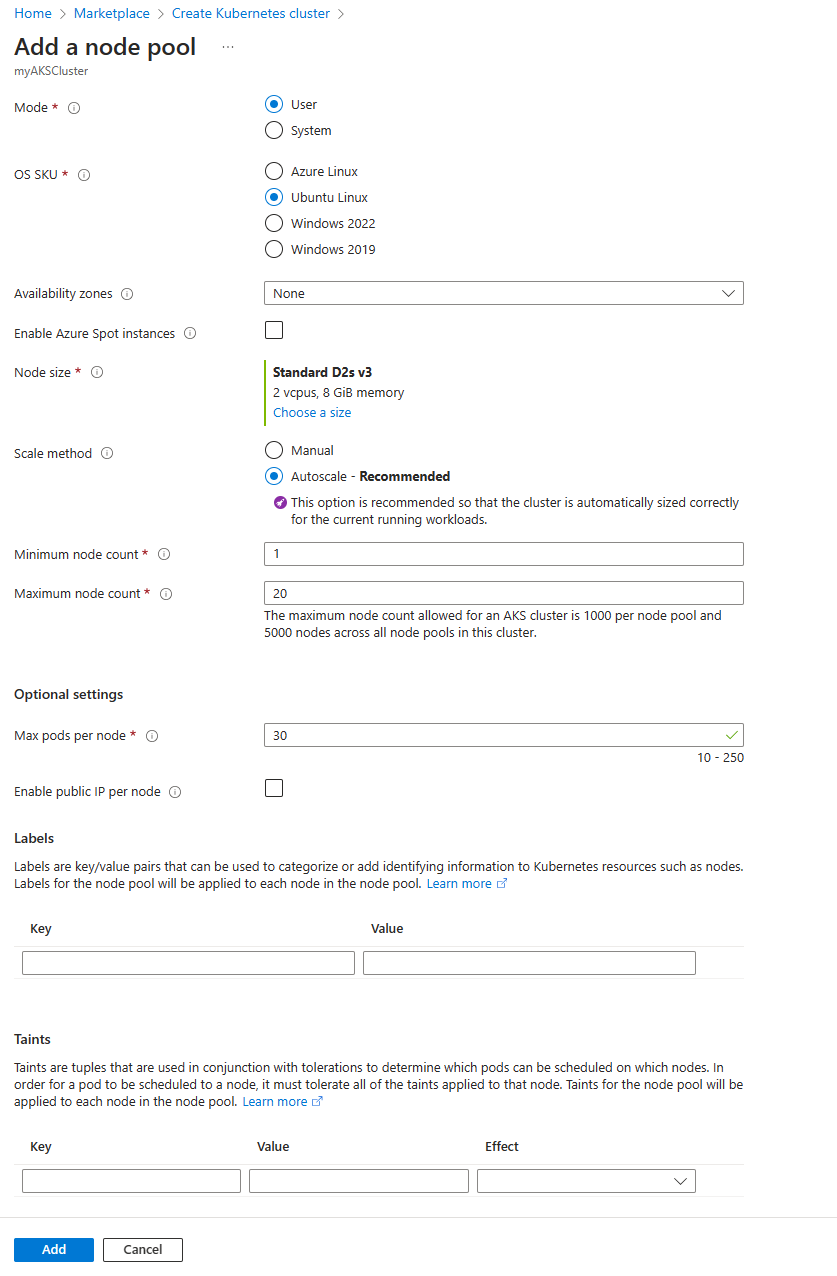
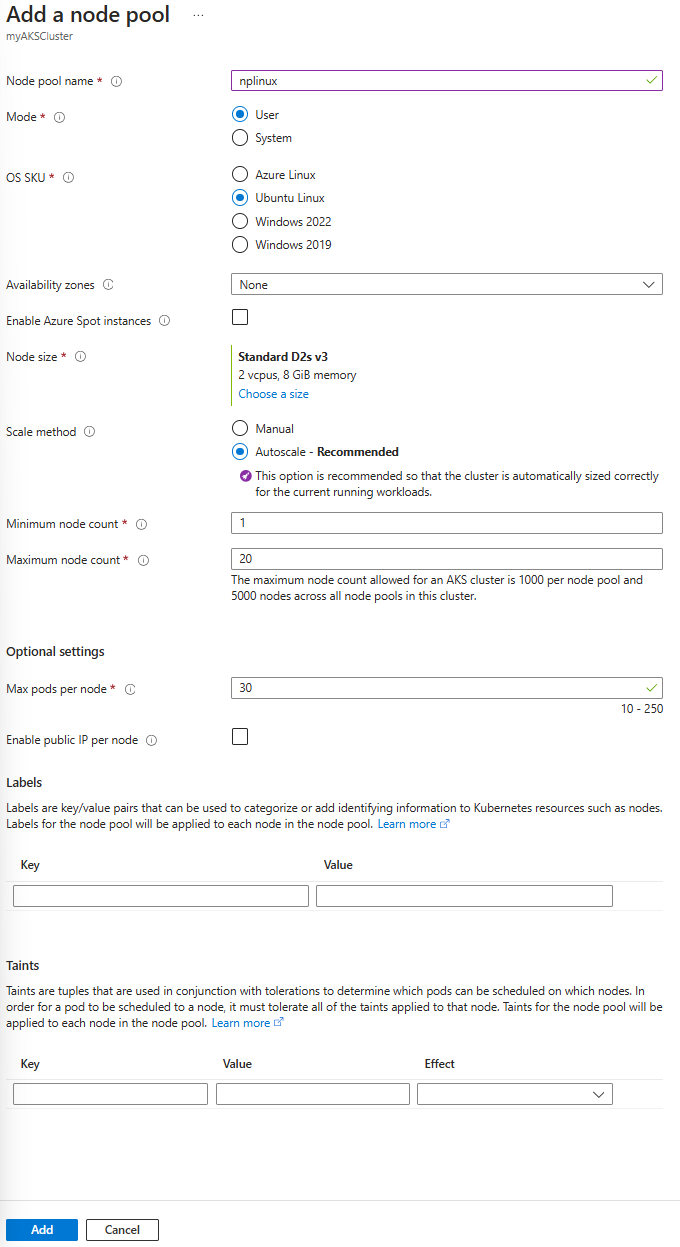
Updates to the AKS quickstart using the Azure portal

diff --git a/articles/aks/learn/quick-kubernetes-deploy-portal.md b/articles/aks/learn/quick-kubernetes-deploy-portal.md
@@ -36,102 +36,93 @@ This quickstart assumes a basic understanding of Kubernetes concepts. For more i
 1. Sign in to the [Azure portal][azure-portal].
 1. On the Azure portal home page, select **Create a resource**.
 1. In the **Categories** section, select **Containers** > **Azure Kubernetes Service (AKS)**.
-1. On the **Basics** tab, configure the following options:
+1. On the **Basics** tab, configure the following settings:
     - Under **Project details**:
-        - Select an Azure **Subscription**.
-        - Create an Azure **Resource group**, such as *myResourceGroup*. While you can select an existing resource group, for testing or evaluation purposes, we recommend creating a resource group to temporarily host these resources and avoid impacting your production or development workloads.
+        - **Subscription**: Select the Azure subscription you want to use for this AKS cluster.
+        - **Resource group**: Select **Create new**, enter a resource group name, such as *myResourceGroup*, and then select **Ok**. While you can select an existing resource group, for testing or evaluation purposes, we recommend creating a resource group to temporarily host these resources and avoid impacting your production or development workloads.
     - Under **Cluster details**:
-      - Set the **Cluster preset configuration** to *Dev/Test*. For more details on preset configurations, see [Cluster configuration presets in the Azure portal][preset-config].
+      - **Cluster preset configuration**: Select **Dev/Test**. For more details on preset configurations, see [Cluster configuration presets in the Azure portal][preset-config].
 
         > [!NOTE]
-        > You can change the preset configuration when creating your cluster by selecting *Compare presets* and choosing a different option.
+        > You can change the preset configuration when creating your cluster by selecting **Compare presets** and choosing a different option.
         > :::image type="content" source="media/quick-kubernetes-deploy-portal/cluster-preset-options.png" alt-text="Screenshot of Create AKS cluster - portal preset options." lightbox="media/quick-kubernetes-deploy-portal/cluster-preset-options.png":::
 
-      - Enter a **Kubernetes cluster name**, such as *myAKSCluster*.
-      - Select a **Region** for the AKS cluster.
-      - Set the **Availability zones** setting to *None*.
-      - Set the **AKS pricing tier** to *Free*.
-      - Leave the default value selected for **Kubernetes version**.
-      - Leave the **Automatic upgrade** setting set to the recommended value, which is *Enabled with patch*.
-      - Leave the **Authentication and authorization** setting set to *Local accounts with Kubernetes RBAC*.
+      - **Kubernetes cluster name**: Enter a cluster name, such as *myAKSCluster*.
+      - **Region**: Select a region, such as *East US 2*.
+      - **Availability zones**: Select **None**.
+      - **AKS pricing tier**: Select **Free**.
+      - Leave the default values for the remaining settings, and select **Next**.
 
         :::image type="content" source="media/quick-kubernetes-deploy-portal/create-cluster-basics.png" alt-text="Screenshot showing how to configure an AKS cluster in Azure portal." lightbox="media/quick-kubernetes-deploy-portal/create-cluster-basics.png":::
 
-1. Select **Next**. On the **Node pools** tab, add a new node pool:
-    - Select **Add node pool**.
-    - Enter a **Node pool name**, such as *nplinux*.
-    - For **Mode**, select **User**.
-    - For **OS SKU**, select **Ubuntu Linux**.
-    - Set the **Availability zones** setting to *None*.
+1. On the **Node pools** tab, configure the following settings:
+    - Select **Add node pool** and enter a **Node pool name**, such as *nplinux*.
+    - **Mode**: Select **User**.
+    - **OS SKU**: Select **Ubuntu Linux**.
+    - **Availability zones**: Select **None**.
     - Leave the **Enable Azure Spot instances** checkbox unchecked.
-    - For **Node size**, select **Choose a size**. On the **Select a VM size** page, select *D2s_v3*, then choose the **Select** button.
-    - Leave the **Scale method** setting set to *Autoscale*.
-    - Leave the **Minimum node count** and **Maximum node count** fields set to their default settings.
+    - **Node size**: Select **Choose a size**. On the **Select a VM size** page, select **D2s_v3**, and then select **Select**.
+    - Leave the default values for the remaining settings, and select **Add**.
 
         :::image type="content" source="media/quick-kubernetes-deploy-portal/create-node-pool-linux.png" alt-text="Screenshot showing how to create a node pool running Ubuntu Linux." lightbox="media/quick-kubernetes-deploy-portal/create-node-pool-linux.png":::
 
-1. Leave all settings on the other tabs set to their defaults, except for the settings on the **Monitoring** tab. By default, the [Azure Monitor features][azure-monitor-features-containers] Container insights, Azure Monitor managed service for Prometheus, and Azure Managed Grafana are enabled. You can save costs by disabling them.
+1. Select **Review + create** to run validation on the cluster configuration. After validation completes, select **Create**.
 
-1. Select **Review + create** to run validation on the cluster configuration. After validation completes, select **Create** to create the AKS cluster.
-
-It takes a few minutes to create the AKS cluster. When your deployment is complete, navigate to your resource by either:
-
-- Selecting **Go to resource**, or
-- Browsing to the AKS cluster resource group and selecting the AKS resource. In this example you browse for *myResourceGroup* and select the resource *myAKSCluster*.
+    It takes a few minutes to create the AKS cluster. When your deployment is complete, navigate to your resource by selecting **Go to resource**, or by browsing to the AKS cluster resource group and selecting the AKS resource.
 
 ## Connect to the cluster
 
-To manage a Kubernetes cluster, use the Kubernetes command-line client, [kubectl][kubectl]. `kubectl` is already installed if you use Azure Cloud Shell. If you're unfamiliar with the Cloud Shell, review [Overview of Azure Cloud Shell](/azure/cloud-shell/overview).
+You use the Kubernetes command-line client, [kubectl][kubectl], to manage Kubernetes clusters. `kubectl` is already installed if you use Azure Cloud Shell. If you're unfamiliar with the Cloud Shell, review [Overview of Azure Cloud Shell](/azure/cloud-shell/overview).
 
 If you're using Cloud Shell, open it with the `>_` button on the top of the Azure portal. If you're using PowerShell locally, connect to Azure via the `Connect-AzAccount` command. If you're using Azure CLI locally, connect to Azure via the `az login` command.
 
 ### [Azure CLI](#tab/azure-cli)
 
-1. Configure `kubectl` to connect to your Kubernetes cluster using the [az aks get-credentials][az-aks-get-credentials] command. This command downloads credentials and configures the Kubernetes CLI to use them.
+1. Configure `kubectl` to connect to your Kubernetes cluster using the [`az aks get-credentials`][az-aks-get-credentials] command. This command downloads credentials and configures the Kubernetes CLI to use them.
 
-    ```azurecli
+    ```azurecli-interactive
     az aks get-credentials --resource-group myResourceGroup --name myAKSCluster
     ```
 
 1. Verify the connection to your cluster using `kubectl get` to return a list of the cluster nodes.
 
-    ```azurecli
+    ```azurecli-interactive
     kubectl get nodes
     ```
 
     The following example output shows the single node created in the previous steps. Make sure the node status is *Ready*.
 
     ```output
-    NAME                                STATUS   ROLES   AGE     VERSION
-    aks-nodepool1-31718369-0   Ready    agent   6m44s   v1.15.10
+    NAME                                STATUS   ROLES   AGE       VERSION
+    aks-nodepool1-31718369-0   Ready    agent    6m44s   v1.15.10
     ```
 
 ### [Azure PowerShell](#tab/azure-powershell)
 
-1. Configure `kubectl` to connect to your Kubernetes cluster using the [Import-AzAksCredential][import-azakscredential] cmdlet. This command downloads credentials and configures the Kubernetes CLI to use them.
+1. Configure `kubectl` to connect to your Kubernetes cluster using the [`Import-AzAksCredential`][import-azakscredential] cmdlet. This command downloads credentials and configures the Kubernetes CLI to use them.
 
-    ```azurepowershell
+    ```azurepowershell-interactive
     Import-AzAksCredential -ResourceGroupName myResourceGroup -Name myAKSCluster
     ```
 
 1. Verify the connection to your cluster using `kubectl get` to return a list of the cluster nodes.
 
-    ```azurepowershell
+    ```azurepowershell-interactive
     kubectl get nodes
     ```
 
     The following example output shows the single node created in the previous steps. Make sure the node status is *Ready*.
 
     ```output
-    NAME                                STATUS   ROLES   AGE     VERSION
-    aks-nodepool1-31718369-0   Ready    agent   6m44s   v1.15.10
+    NAME                                STATUS   ROLES   AGE       VERSION
+    aks-nodepool1-31718369-0   Ready    agent    6m44s   v1.15.10
     ```
 
 ---
 
 ## Deploy the application
 
-To deploy the application, you use a manifest file to create all the objects required to run the [AKS Store application](https://github.com/Azure-Samples/aks-store-demo). A Kubernetes manifest file defines a cluster's desired state, such as which container images to run. The manifest includes the following Kubernetes deployments and services:
+You use a manifest file to create all the objects required to run the [AKS Store application](https://github.com/Azure-Samples/aks-store-demo). A Kubernetes manifest file defines a cluster's desired state, such as which container images to run. The manifest includes the following Kubernetes deployments and services:
 
 :::image type="content" source="media/quick-kubernetes-deploy-portal/aks-store-architecture.png" alt-text="Screenshot of Azure Store sample architecture." lightbox="media/quick-kubernetes-deploy-portal/aks-store-architecture.png":::
 
@@ -144,7 +135,7 @@ To deploy the application, you use a manifest file to create all the objects req
 > We don't recommend running stateful containers, such as Rabbit MQ, without persistent storage for production. These are used here for simplicity, but we recommend using managed services, such as Azure CosmosDB or Azure Service Bus.
 
 1. In the Cloud Shell, open an editor and create a file named `aks-store-quickstart.yaml`.
-1. Paste the following manifest into the editor:
+2. Paste the following manifest into the editor:
 
     ```yaml
     apiVersion: apps/v1
@@ -379,9 +370,9 @@ To deploy the application, you use a manifest file to create all the objects req
 
     If you create and save the YAML file locally, then you can upload the manifest file to your default directory in CloudShell by selecting the **Upload/Download files** button and selecting the file from your local file system.
 
-1. Deploy the application using the `kubectl apply` command and specify the name of your YAML manifest:
+3. Deploy the application using the `kubectl apply` command and specify the name of your YAML manifest:
 
-    ```console
+    ```bash
     kubectl apply -f aks-store-quickstart.yaml
     ```
 
@@ -402,15 +393,15 @@ To deploy the application, you use a manifest file to create all the objects req
 
 When the application runs, a Kubernetes service exposes the application front end to the internet. This process can take a few minutes to complete.
 
-1. Check the status of the deployed pods using the [kubectl get pods][kubectl-get] command. Make sure all pods are `Running` before proceeding.
+1. Check the status of the deployed pods using the [`kubectl get pods`][kubectl-get] command. Make sure all pods are `Running` before proceeding.
 
-    ```console
+    ```bash
     kubectl get pods
     ```
 
-1. Check for a public IP address for the store-front application. Monitor progress using the [kubectl get service][kubectl-get] command with the `--watch` argument.
+1. Check for a public IP address for the `store-front` application. Monitor progress using the [`kubectl get service`][kubectl-get] command with the `--watch` argument.
 
-    ```azurecli
+    ```azurecli-interactive
     kubectl get service store-front --watch
     ```
 
@@ -436,7 +427,7 @@ When the application runs, a Kubernetes service exposes the application front en
 
 ## Delete the cluster
 
-If you don't plan on going through the [AKS tutorial][aks-tutorial], clean up unnecessary resources to avoid Azure charges.
+If you don't plan on going through the [AKS tutorial series][aks-tutorial], clean up unnecessary resources to avoid Azure charges.
 
 1. In the Azure portal, navigate to your AKS cluster resource group.
 1. Select **Delete resource group**.
@@ -447,12 +438,12 @@ If you don't plan on going through the [AKS tutorial][aks-tutorial], clean up un
 
 ## Next steps
 
-In this quickstart, you deployed a Kubernetes cluster and then deployed a simple multi-container application to it. This sample application is for demo purposes only and doesn't represent all the best practices for Kubernetes applications. For guidance on creating full solutions with AKS for production, see [AKS solution guidance][aks-solution-guidance].
+In this quickstart, you deployed a Kubernetes cluster, and then deployed a simple multi-container application to it. This sample application is for demo purposes only and doesn't represent all the best practices for Kubernetes applications. For guidance on creating full solutions with AKS for production, see [AKS solution guidance][aks-solution-guidance].
 
-To learn more about AKS and walk through a complete code-to-deployment example, continue to the Kubernetes cluster tutorial.
+To learn more about AKS and walk through a complete code-to-deployment example, continue to the Kubernetes cluster tutorial series.
 
 > [!div class="nextstepaction"]
-> [AKS tutorial][aks-tutorial]
+> [AKS tutorial series][aks-tutorial]
 
 <!-- LINKS - external -->
 [kubectl]: https://kubernetes.io/docs/reference/kubectl/
@@ -468,4 +459,3 @@ To learn more about AKS and walk through a complete code-to-deployment example, 
 [intro-azure-linux]: /azure/azure-linux/intro-azure-linux
 [baseline-reference-architecture]: /azure/architecture/reference-architectures/containers/aks/baseline-aks?toc=/azure/aks/toc.json&bc=/azure/aks/breadcrumb/toc.json
 [aks-solution-guidance]: /azure/architecture/reference-architectures/containers/aks-start-here?toc=/azure/aks/toc.json&bc=/azure/aks/breadcrumb/toc.json
-[azure-monitor-features-containers]: /azure/azure-monitor/containers/container-insights-overview
